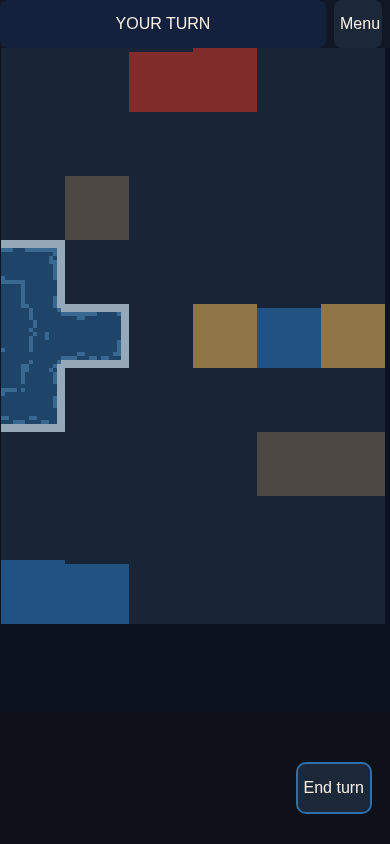
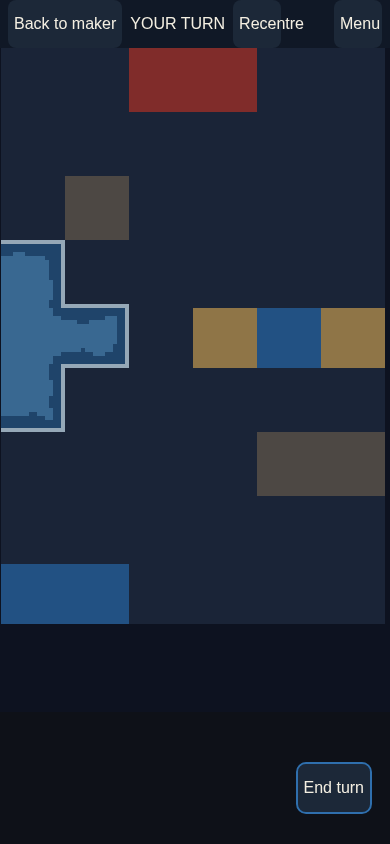
handback: step-03 test r2 smoke touch-up

diff --git a/handback/step-03-test/r2/HANDBACK.md b/handback/step-03-test/r2/HANDBACK.md
@@ -1,6 +1,6 @@
 # Hand-back step-03-test r2
 Step file: docs/maker/steps/step-03-test.md
-Base commit: fdf29002ae7438152a1593a8529acecf6292b3f6     Code head: ca9d603a0050a137b226a22849f46f587663fbe4     Tree: d0f7a15ee7ec76707c0a20fb41bae92b111753b5     Branch: step/step-03-test-r1-chatA     PR: opened by Chief Of Staff from the branch
+Base commit: fdf29002ae7438152a1593a8529acecf6292b3f6     Code head: 875087866a83664a5bd8164f505ab812e2314a22     Tree: 6cfc43f44e92257c13e72b8ec936afa275cff2c1     Branch: step/step-03-test-r1-chatA     PR: opened by Chief Of Staff from the branch
 Node: v22.23.3     npm: 10.9.9     rg: ripgrep 14.1.1 (rev 4649aa9700)
 
 ## Changed files
@@ -31,7 +31,7 @@ N = 8 new tests. Floor 1041 + 8 = 1049. Line gate on this code head, `git diff -
 # skipped 0
 # todo 0
 ```
-Stamp: `4d2ee9e86927`. Command: `node tools/maker/build.ts /tmp/maker-step3-r2` at the code head. Output: `/tmp/maker-step3-r2/maker/index.html`, `/tmp/maker-step3-r2/maker/4d2ee9e86927/`, `/tmp/maker-step3-r2/play-stage/4d2ee9e86927/index.html`, `/tmp/maker-step3-r2/build.json` (commit ca9d603a0050a137b226a22849f46f587663fbe4).
+Stamp: `4d2ee9e86927`. Command: `node tools/maker/build.ts /tmp/maker-step3-r2c` at the code head. Output: `/tmp/maker-step3-r2c/maker/index.html`, `/tmp/maker-step3-r2c/maker/4d2ee9e86927/`, `/tmp/maker-step3-r2c/play-stage/4d2ee9e86927/index.html`, `/tmp/maker-step3-r2c/build.json` (commit 875087866a83664a5bd8164f505ab812e2314a22).
 
 ## Smoke
 sha256 of handoff/steps/tests/s0-play-input/touch-smoke.mjs: d528795e50897328c1f300d0bbd5807e3f74cc80ca0f27eed0af6e77f4903941 (matches the frozen kit; not edited).
@@ -54,7 +54,52 @@ ok   6 end turn @360: ok
 ok   7 buttons @360: ok
 TOUCH SMOKE PASS
 ```
-This step, `PLAYWRIGHT_CORE=/workspace/node_modules/playwright-core/ CHROME=/usr/local/bin/google-chrome node handoff/steps/tests/s3-test/touch-smoke.mjs . 8798`:
+This step, three runs of `PLAYWRIGHT_CORE=/workspace/node_modules/playwright-core/ CHROME=/usr/local/bin/google-chrome node handoff/steps/tests/s3-test/touch-smoke.mjs . <port>` (ports 8811, 8812, 8813). Check 3 waits for `#attack` to be visible before reading its box. All three passed at 390 and at 360.
+Run 1:
+```
+ok   1 select @390: ok
+ok   2 walk @390: ok
+ok   3 attack @390: ok
+ok   4 pan then select @390: ok
+ok   5 talk @390: ok
+ok   6 end turn @390: ok
+ok   7 buttons @390: ok
+ok   8 back to maker @390: ok
+ok   9 empty blocked @390: ok
+ok   1 select @360: ok
+ok   2 walk @360: ok
+ok   3 attack @360: ok
+ok   4 pan then select @360: ok
+ok   5 talk @360: ok
+ok   6 end turn @360: ok
+ok   7 buttons @360: ok
+ok   8 back to maker @360: ok
+ok   9 empty blocked @360: ok
+TOUCH SMOKE PASS
+```
+Run 2:
+```
+ok   1 select @390: ok
+ok   2 walk @390: ok
+ok   3 attack @390: ok
+ok   4 pan then select @390: ok
+ok   5 talk @390: ok
+ok   6 end turn @390: ok
+ok   7 buttons @390: ok
+ok   8 back to maker @390: ok
+ok   9 empty blocked @390: ok
+ok   1 select @360: ok
+ok   2 walk @360: ok
+ok   3 attack @360: ok
+ok   4 pan then select @360: ok
+ok   5 talk @360: ok
+ok   6 end turn @360: ok
+ok   7 buttons @360: ok
+ok   8 back to maker @360: ok
+ok   9 empty blocked @360: ok
+TOUCH SMOKE PASS
+```
+Run 3:
 ```
 ok   1 select @390: ok
 ok   2 walk @390: ok
@@ -81,14 +126,15 @@ TOUCH SMOKE PASS
 390×844, light, device scale 1. Served the release build above on 127.0.0.1. Google Chrome.
 - [01-project-test.png](01-project-test.png) — project screen, Test enabled in the primary style.
 - [02-blocked.png](02-blocked.png) — Can't play yet, with the map sentence and Fix.
-- [03-play-back.png](03-play-back.png) — play stage opened by Test, Back to maker in the top bar, maker hidden.
+- [03-play-back.png](03-play-back.png) — play stage opened by Test, taken after the YOUR TURN banner clears. Back to maker is in the top bar (114×48 at x 8). The maker is hidden.
 - [04-missing.png](04-missing.png) — `?project=missing` shows the error and Back to maker, not the fixture.
 
 ## Shipped tests (sha256, unchanged)
 This step ships no frozen test file and lists no test sha256 to copy. The new tests are written here. The existing one-parser scan is unchanged; a second test was added beside it.
 
 ## Helpers & self-review (required)
-- Helper review of the r2 diff against docs/qa/step-03-review.md must-fixes 1–5 (hide, favicon, army throw, launch order, tests). It had not returned before this hand-back. Self-review below is the check that landed.
+- Helper review of the r2 product diff against docs/qa/step-03-review.md must-fixes 1–5. A second helper checked this touch-up: one line in the s3 smoke, 129 lines, S0 hash unchanged, shots 01/02/04 untouched. Self-review is the check that landed.
+- Touch-up self-review: `touch-smoke.mjs` L52 waits for `#attack` visible (3000 ms) on the same line as the box read. The file is 129 lines. Three Google Chrome runs printed TOUCH SMOKE PASS at 390 and 360, including check 3. Shot 03 was retaken after `#banner` was `display: none`; Back to maker measured 114×48 at x 8. Shots 01, 02 and 04 were not rewritten. No file under `src/` or `tools/` changed. S0 sha is still `d528795e`. Green re-run is 1049/0. Line gate stays 266 + 33 = 299.
 - Self-review must-fixes: `.app[hidden] { display: none }` is the line after `.app`, and s3 check 8 asserts elementFromPoint at the Test box is not that button, done. `<link rel="icon" href="data:,">` is before `<title>`; the smoke still fails on any console error, done. `play: army` is thrown again and both hp/atk 1 defaults are gone. `openProject` builds docs, calls `docsToInput` in one try, and returns `{ docs: null, error: e.message }` on a throw, done. `play: seed` and `play: army` use the review's sentences. A blocked open shows that sentence on the Can't-play-yet sheet, not the danger banner. `start` runs before `showUrl`; a throw does not push the URL. `enterPlay` adds the canvas, runs `startMatch`, hides the maker only after it returns, and on a throw removes the canvas and rethrows, done. R-E1 asserts empty looks on the saved demo and `docs: null` / `play: army` on Empty. `test-launch: Empty stays in the maker` and `test-launch: start throws, maker stays` are the two new tests. N = 8, green 1049/0. s3 check 9 empty blocked passes at 390 and 360. Smoke is 129 lines. S0 sha is unchanged. Both smokes print TOUCH SMOKE PASS under Google Chrome. QA checklist G1–G10: done. No token was printed, stored, or committed.
 
 ## Decisions & deviations (5–10 lines)
@@ -97,7 +143,7 @@ This step ships no frozen test file and lists no test sha256 to copy. The new te
 - `launchTest` calls `start` first. The URL is pushed only after it returns. `enterPlay` hides `#app` only after `startMatch` returns. A throw removes the canvas and rethrows, and `launchTest` turns that into the sheet sentence.
 - The Empty smoke step uses an exact button name. `getByRole` name "Empty" also matches the New project card ("Demo or empty") and was creating a second demo. The smoke still fails on any console error. It is 129 lines.
 - tools/maker/home.ts and tools/maker/index.html are extra edits. home.ts already owns clicks. index.html is the favicon fix QA asked for. Guidance caps exceeded, total inside 400: tools/play-stage/project.ts is 14 insertions (cap 10) because the readiness try replaced the one-line return; tests/editor/test-gate.test.ts plus tests/tools/play-stage-source.test.ts are 22 + 93 = 115 (cap 90) because Empty, the thrown start, and the parity golden share the source file. Gate: 266 insertions + 33 deletions = 299.
-- Dropped `.row` stays dropped. Test stays an enabled primary button. No cache grows with turns or edits.
+- The touch-up adds one wait on the smoke's attack line: `waitFor({ state: "visible", timeout: 3000 })` before the `#attack` box read, on that same line. The script stays 129 lines. No product file changed. Shot 03 was retaken after `#banner` is `display: none`. Shots 01, 02 and 04 are the previous files.
 
 ## Next step (optional proposal)
 - Step 4 can use the same Test launch. Fix still only closes the sheet.
